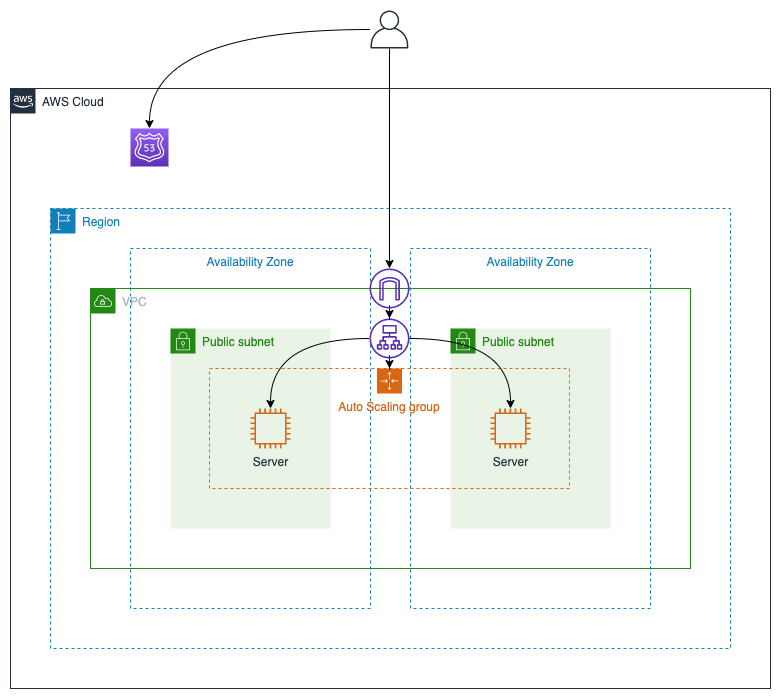
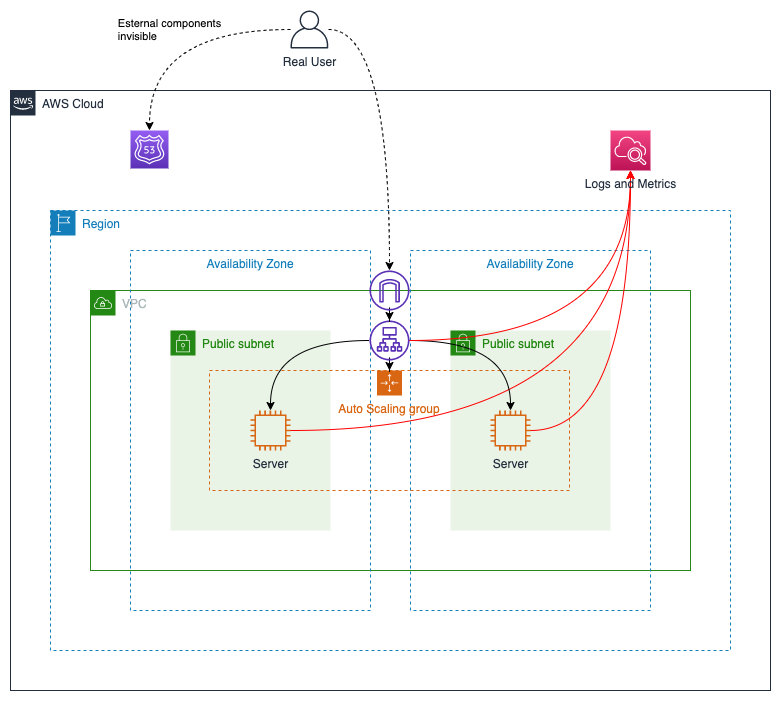
Update synthetics architecture diagrams

diff --git a/workshop/content/030_basic_content/020_working_under_load/_index.en.md b/workshop/content/030_basic_content/020_working_under_load/_index.en.md
@@ -4,7 +4,11 @@ weight: 20
 services: true
 ---
 
-To gain insights from our fault injection experiments, we want to correlate user-experience with the sysops view from the previous section. In production, we could instrument the clients to send telemetry back to us, but in non-production we don't usually have sufficient load to do this.  _You_ also probably have better things to do than sit there clicking reload on a browser page while your experiment is running.
+In the previous section we showed you a typical configuration to collect sysops data but without visibility into the actual user experience. To gain end-to-end insights from our fault injection experiments, we want to correlate user-experience with the sysops view from the previous section. In production, we could instrument the clients to send telemetry back to us, but in non-production we don't usually have sufficient load to do this.  _You_ also probably have better things to do than sit there clicking reload on a browser page while your experiment is running. 
+
+In this section we will show you how to generate and record synthetic load to reflect the user experience:
+
+{{< img "BasicASG-with-user-and-synthetics.png" "Image of architecture to be injected with chaos" >}}
 
 ## Generating load against our website
 
